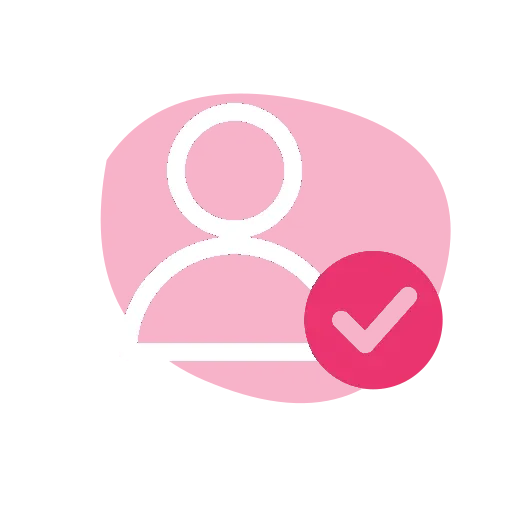
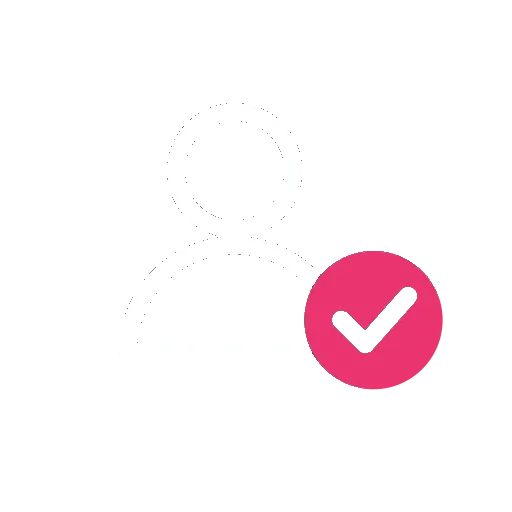
Couvertures : sans tache de fond
Claude-Session: https://claude.ai/code/session_01NBGakcBRwoq7RKRswmKrSM

Changed region(s): [[0.1875, 0.1562, 0.9062, 0.8125], [0.6562, 0.5625, 0.8125, 0.6875]]

diff --git a/tools/visuels/stories/cover-canada.html b/tools/visuels/stories/cover-canada.html
@@ -1,6 +1,6 @@
 <html><head><link rel=stylesheet href=base.css></head><body><div style="width:1080px;height:1920px;background:#29245c;display:grid;place-items:center">
 <svg width="600" height="600" viewBox="0 0 512 512">
-<path d="M150 120 C 230 40, 400 70, 410 190 C 420 300, 330 430, 220 410 C 110 390, 70 200, 150 120 Z" fill="#ea346f" fill-opacity="0.38"/>
+
 <path d="M256 470 C 256 470 120 330 120 220 A 136 136 0 0 1 392 220 C 392 330 256 470 256 470 Z" fill="none" stroke="#ffffff" stroke-width="22" stroke-linejoin="round"/>
 <g transform="translate(256 222) scale(2.5) translate(-50 -42)"><path d="M50.0,8.0 L55.5,20.0 L62.0,16.5 L59.5,33.0 L70.0,23.5 L72.0,29.0 L83.0,27.0 L78.0,39.5 L85.0,43.0 L68.5,56.0 L71.0,63.5 L53.5,60.5 L53.5,76.0 L46.5,76.0 L46.5,60.5 L29.0,63.5 L31.5,56.0 L15.0,43.0 L22.0,39.5 L17.0,27.0 L28.0,29.0 L30.0,23.5 L40.5,33.0 L38.0,16.5 L44.5,20.0 Z" fill="#ea346f" stroke="#ea346f" stroke-width="3" stroke-linejoin="round"/></g>
 </svg></div></body></html>
